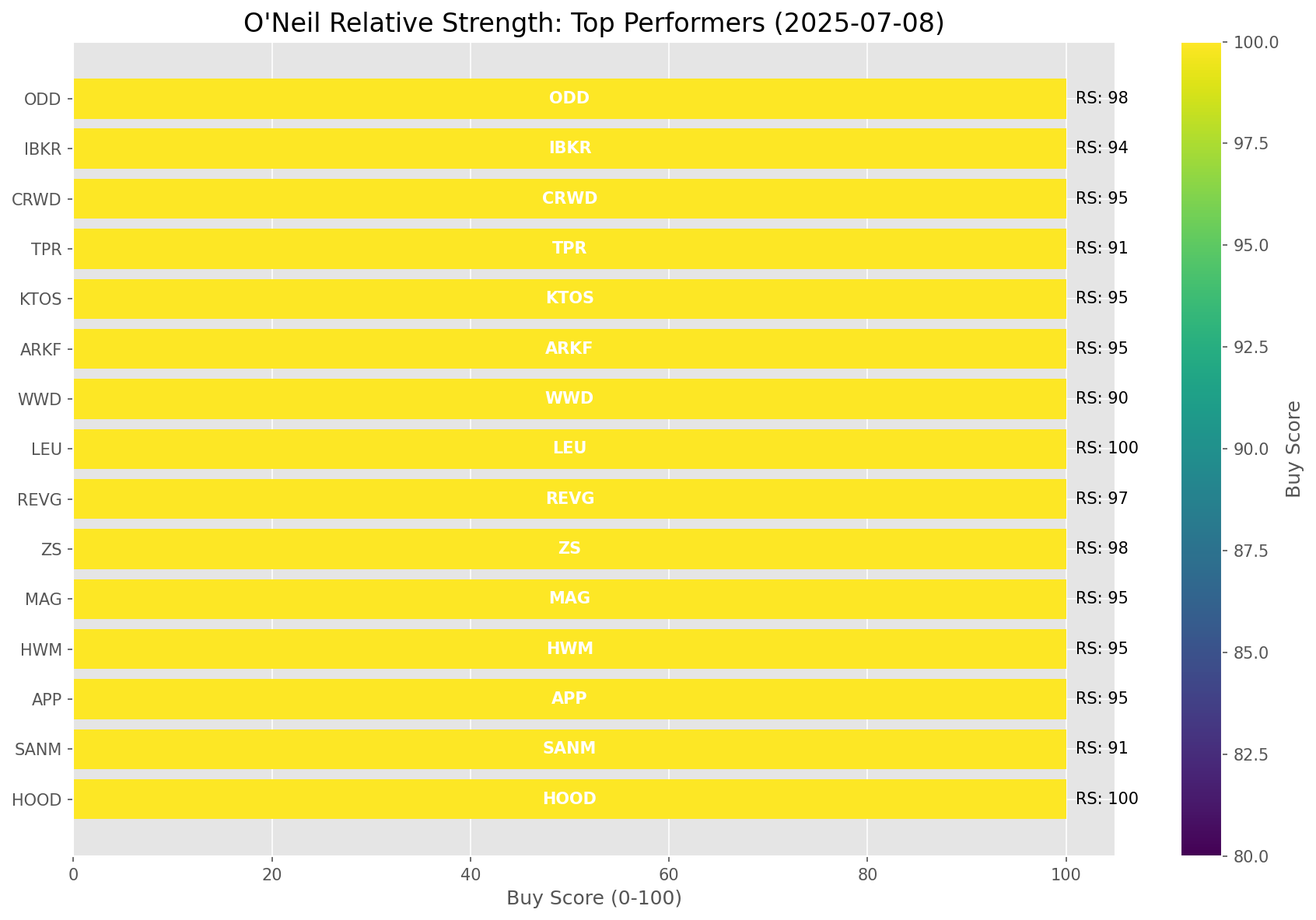
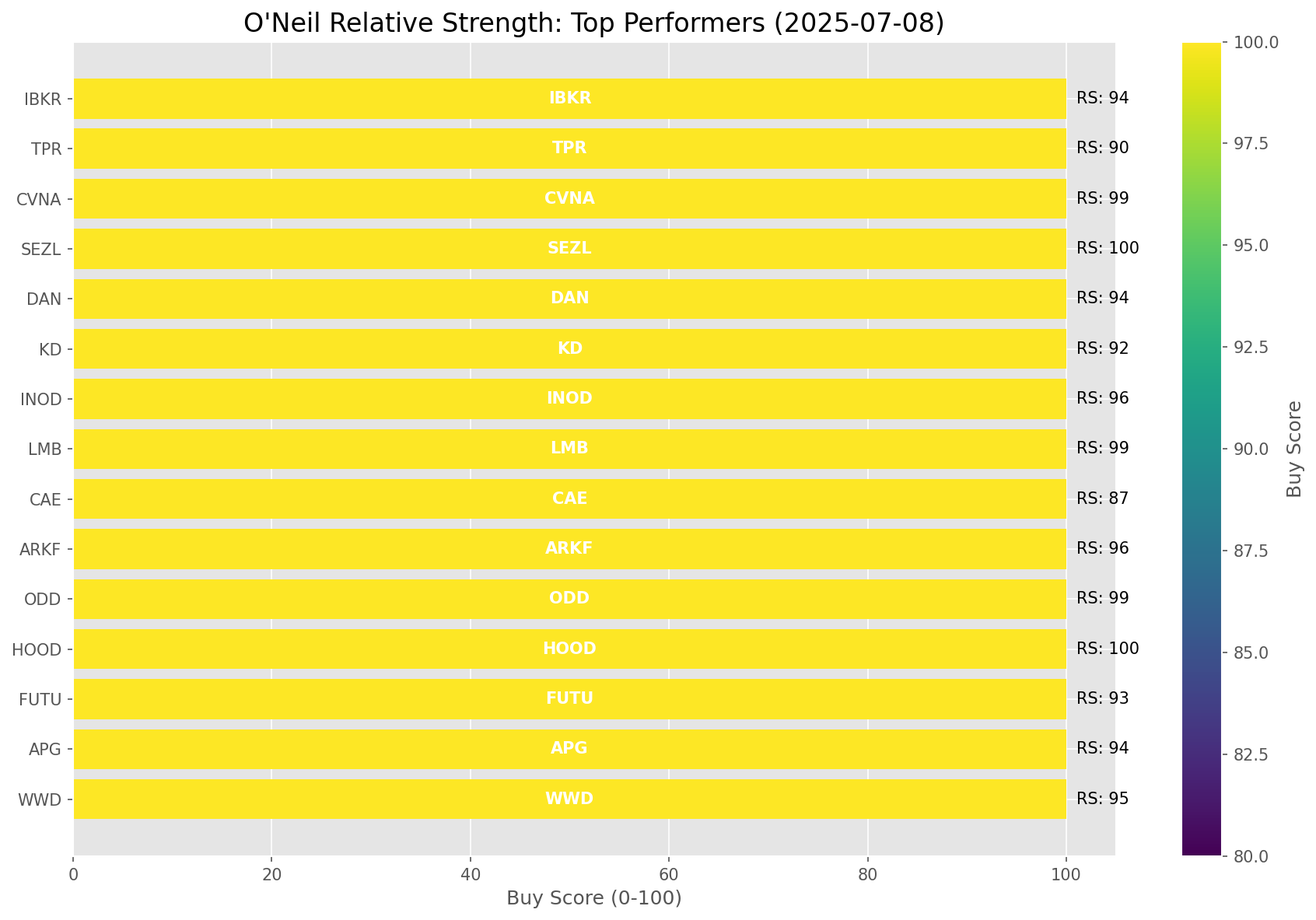
Add market report for 2025-07-08

diff --git a/oneil_relative_strength_report_2025-07-08.md b/oneil_relative_strength_report_2025-07-08.md
@@ -9,11 +9,11 @@
 | Metric | Value |
 |--------|-------|
 | **Market Valuation** | **Overvalued** |
-| **Current Ratio** | 10.20 |
+| **Current Ratio** | 10.21 |
 | **Historical Mean** | 9.41 |
 | **Standard Deviation** | 0.50 |
 | **Z-Score (StdDev from Mean)** | 1.59 |
-| **Total Market Cap** | $305.67 trillion |
+| **Total Market Cap** | $305.78 trillion |
 | **GDP** | $29.96 trillion |
 
 ## **Market Insights**
@@ -49,41 +49,41 @@ Based on William O'Neil's Relative Strength Methodology
 
 | ETF | Strength | RS Rating | Performance | Above Key MAs | Trend | Sector |
 |-----|----------|-----------|-------------|--------------|-------|--------|
-| [ARKK](https://www.tradingview.com/chart/?symbol=ARKK) | 98.5 | 97.0 | 68.72% | 10d ✓, 50d ✓, 200d ✓ | ↗ | Innovation |
-| [ARKW](https://www.tradingview.com/chart/?symbol=ARKW) | 98.0 | 96.0 | 62.73% | 10d ✓, 50d ✓, 200d ✓ | ↗ | Next Generation Internet |
-| [ARKF](https://www.tradingview.com/chart/?symbol=ARKF) | 97.5 | 95.0 | 59.26% | 10d ✓, 50d ✓, 200d ✓ | ↗ | Fintech Innovation |
+| [ARKK](https://www.tradingview.com/chart/?symbol=ARKK) | 98.5 | 97.0 | 68.85% | 10d ✓, 50d ✓, 200d ✓ | ↗ | Innovation |
+| [ARKF](https://www.tradingview.com/chart/?symbol=ARKF) | 98.0 | 96.0 | 68.20% | 10d ✓, 50d ✓, 200d ✓ | ↗ | Fintech Innovation |
+| [ARKW](https://www.tradingview.com/chart/?symbol=ARKW) | 97.5 | 95.0 | 62.73% | 10d ✓, 50d ✓, 200d ✓ | ↗ | Next Generation Internet |
 | [BLOK](https://www.tradingview.com/chart/?symbol=BLOK) | 96.5 | 93.0 | 53.81% | 10d ✓, 50d ✓, 200d ✓ | ↗ | Blockchain & Cryptocurrency |
-| [XLK](https://www.tradingview.com/chart/?symbol=XLK) | 94.0 | 88.0 | 40.28% | 10d ✓, 50d ✓, 200d ✓ | ↗ | Technology |
-| [AIQ](https://www.tradingview.com/chart/?symbol=AIQ) | 92.5 | 85.0 | 34.72% | 10d ✓, 50d ✓, 200d ✓ | ↗ | Artificial Intelligence & Technology |
-| [JETS](https://www.tradingview.com/chart/?symbol=JETS) | 92.0 | 84.0 | 33.72% | 10d ✓, 50d ✓, 200d ✓ | ↗ | Airlines |
-| [CIBR](https://www.tradingview.com/chart/?symbol=CIBR) | 91.0 | 82.0 | 31.80% | 10d ✓, 50d ✓, 200d ✓ | ↗ | Cybersecurity |
-| [URA](https://www.tradingview.com/chart/?symbol=URA) | 89.1 | 98.0 | 78.84% | 10d ✗, 50d ✓, 200d ✓ | ↗ | Uranium |
-| [XLI](https://www.tradingview.com/chart/?symbol=XLI) | 88.0 | 76.0 | 26.11% | 10d ✓, 50d ✓, 200d ✓ | ↗ | Industrial |
-| [PAVE](https://www.tradingview.com/chart/?symbol=PAVE) | 86.5 | 73.0 | 23.07% | 10d ✓, 50d ✓, 200d ✓ | ↗ | Infrastructure |
-| [SLV](https://www.tradingview.com/chart/?symbol=SLV) | 85.5 | 71.0 | 22.38% | 10d ✓, 50d ✓, 200d ✓ | ↗ | Silver |
-| [XLY](https://www.tradingview.com/chart/?symbol=XLY) | 83.0 | 66.0 | 19.34% | 10d ✓, 50d ✓, 200d ✓ | ↗ | Consumer Discretionary |
-| [XLF](https://www.tradingview.com/chart/?symbol=XLF) | 82.0 | 64.0 | 18.65% | 10d ✓, 50d ✓, 200d ✓ | ↗ | Financial |
-| [SOXX](https://www.tradingview.com/chart/?symbol=SOXX) | 76.5 | 93.0 | 53.39% | 10d ✓, 50d ✓, 200d ✓ | ↘ | Semiconductors |
-| [IYZ](https://www.tradingview.com/chart/?symbol=IYZ) | 76.0 | 52.0 | 12.04% | 10d ✓, 50d ✓, 200d ✓ | ↗ | Telecommunications |
-| [XLC](https://www.tradingview.com/chart/?symbol=XLC) | 75.6 | 71.0 | 22.22% | 10d ✗, 50d ✓, 200d ✓ | ↗ | Communications |
-| [KWEB](https://www.tradingview.com/chart/?symbol=KWEB) | 74.0 | 48.0 | 10.46% | 10d ✓, 50d ✓, 200d ✓ | ↗ | Chinese Internet |
-| [ARKG](https://www.tradingview.com/chart/?symbol=ARKG) | 70.5 | 81.0 | 30.60% | 10d ✓, 50d ✓, 200d ✓ | ↘ | Genomics |
-| [XLP](https://www.tradingview.com/chart/?symbol=XLP) | 67.0 | 34.0 | 3.93% | 10d ✓, 50d ✓, 200d ✓ | ↗ | Consumer Staples |
-| [ICLN](https://www.tradingview.com/chart/?symbol=ICLN) | 64.5 | 69.0 | 21.33% | 10d ✓, 50d ✓, 200d ✓ | ↘ | Clean Energy |
-| [IYT](https://www.tradingview.com/chart/?symbol=IYT) | 62.0 | 64.0 | 18.38% | 10d ✓, 50d ✓, 200d ✓ | ↘ | Transportation |
-| [XLB](https://www.tradingview.com/chart/?symbol=XLB) | 60.0 | 60.0 | 16.55% | 10d ✓, 50d ✓, 200d ✓ | ↘ | Materials |
-| [GLD](https://www.tradingview.com/chart/?symbol=GLD) | 52.7 | 45.0 | 8.87% | 10d ✗, 50d ✗, 200d ✓ | ↗ | Gold |
-| [XLU](https://www.tradingview.com/chart/?symbol=XLU) | 52.2 | 44.0 | 8.23% | 10d ✗, 50d ✗, 200d ✓ | ↗ | Utilities |
-| [DBC](https://www.tradingview.com/chart/?symbol=DBC) | 45.5 | 31.0 | 2.39% | 10d ✓, 50d ✓, 200d ✓ | ↘ | Commodities |
-| [XLE](https://www.tradingview.com/chart/?symbol=XLE) | 44.8 | 50.0 | 11.06% | 10d ✓, 50d ✓, 200d ✗ | ↘ | Energy |
-| [IBB](https://www.tradingview.com/chart/?symbol=IBB) | 44.3 | 49.0 | 10.58% | 10d ✓, 50d ✓, 200d ✗ | ↘ | Biotechnology |
-| [ITB](https://www.tradingview.com/chart/?symbol=ITB) | 35.8 | 32.0 | 2.76% | 10d ✓, 50d ✓, 200d ✗ | ↘ | Home Construction |
-| [XLV](https://www.tradingview.com/chart/?symbol=XLV) | 32.3 | 25.0 | 0.10% | 10d ✓, 50d ✓, 200d ✗ | ↘ | Healthcare |
-| [IYR](https://www.tradingview.com/chart/?symbol=IYR) | 29.9 | 40.0 | 6.49% | 10d ✗, 50d ✓, 200d ✗ | ↘ | Real Estate |
-| [DBA](https://www.tradingview.com/chart/?symbol=DBA) | 26.0 | 12.0 | -5.41% | 10d ✗, 50d ✗, 200d ✗ | ↗ | Agriculture |
-| [UUP](https://www.tradingview.com/chart/?symbol=UUP) | 16.9 | 14.0 | -3.86% | 10d ✓, 50d ✗, 200d ✗ | ↘ | U.S. Dollar |
-| [BIL](https://www.tradingview.com/chart/?symbol=BIL) | 12.0 | 24.0 | 0.04% | 10d ✗, 50d ✗, 200d ✗ | ↘ | Short-term Treasuries |
-| [TLT](https://www.tradingview.com/chart/?symbol=TLT) | 5.0 | 10.0 | -7.75% | 10d ✗, 50d ✗, 200d ✗ | ↘ | Long-term Treasuries |
+| [XLK](https://www.tradingview.com/chart/?symbol=XLK) | 94.0 | 88.0 | 40.51% | 10d ✓, 50d ✓, 200d ✓ | ↗ | Technology |
+| [AIQ](https://www.tradingview.com/chart/?symbol=AIQ) | 92.0 | 84.0 | 34.74% | 10d ✓, 50d ✓, 200d ✓ | ↗ | Artificial Intelligence & Technology |
+| [JETS](https://www.tradingview.com/chart/?symbol=JETS) | 91.5 | 83.0 | 33.72% | 10d ✓, 50d ✓, 200d ✓ | ↗ | Airlines |
+| [CIBR](https://www.tradingview.com/chart/?symbol=CIBR) | 89.5 | 79.0 | 30.78% | 10d ✓, 50d ✓, 200d ✓ | ↗ | Cybersecurity |
+| [URA](https://www.tradingview.com/chart/?symbol=URA) | 88.6 | 97.0 | 76.01% | 10d ✗, 50d ✓, 200d ✓ | ↗ | Uranium |
+| [PAVE](https://www.tradingview.com/chart/?symbol=PAVE) | 88.5 | 77.0 | 29.30% | 10d ✓, 50d ✓, 200d ✓ | ↗ | Infrastructure |
+| [XLI](https://www.tradingview.com/chart/?symbol=XLI) | 86.5 | 73.0 | 26.08% | 10d ✓, 50d ✓, 200d ✓ | ↗ | Industrial |
+| [SLV](https://www.tradingview.com/chart/?symbol=SLV) | 83.5 | 67.0 | 22.03% | 10d ✓, 50d ✓, 200d ✓ | ↗ | Silver |
+| [XLY](https://www.tradingview.com/chart/?symbol=XLY) | 81.0 | 62.0 | 19.54% | 10d ✓, 50d ✓, 200d ✓ | ↗ | Consumer Discretionary |
+| [XLF](https://www.tradingview.com/chart/?symbol=XLF) | 80.0 | 60.0 | 18.35% | 10d ✓, 50d ✓, 200d ✓ | ↗ | Financial |
+| [SOXX](https://www.tradingview.com/chart/?symbol=SOXX) | 77.0 | 94.0 | 55.57% | 10d ✓, 50d ✓, 200d ✓ | ↘ | Semiconductors |
+| [IYZ](https://www.tradingview.com/chart/?symbol=IYZ) | 74.0 | 48.0 | 12.04% | 10d ✓, 50d ✓, 200d ✓ | ↗ | Telecommunications |
+| [XLC](https://www.tradingview.com/chart/?symbol=XLC) | 73.6 | 67.0 | 21.99% | 10d ✗, 50d ✓, 200d ✓ | ↗ | Communications |
+| [KWEB](https://www.tradingview.com/chart/?symbol=KWEB) | 73.0 | 46.0 | 10.94% | 10d ✓, 50d ✓, 200d ✓ | ↗ | Chinese Internet |
+| [ARKG](https://www.tradingview.com/chart/?symbol=ARKG) | 70.5 | 81.0 | 31.84% | 10d ✓, 50d ✓, 200d ✓ | ↘ | Genomics |
+| [IYT](https://www.tradingview.com/chart/?symbol=IYT) | 66.0 | 72.0 | 25.35% | 10d ✓, 50d ✓, 200d ✓ | ↘ | Transportation |
+| [XLP](https://www.tradingview.com/chart/?symbol=XLP) | 65.5 | 31.0 | 3.99% | 10d ✓, 50d ✓, 200d ✓ | ↗ | Consumer Staples |
+| [ICLN](https://www.tradingview.com/chart/?symbol=ICLN) | 63.5 | 67.0 | 21.61% | 10d ✓, 50d ✓, 200d ✓ | ↘ | Clean Energy |
+| [XLB](https://www.tradingview.com/chart/?symbol=XLB) | 59.0 | 58.0 | 17.22% | 10d ✓, 50d ✓, 200d ✓ | ↘ | Materials |
+| [GLD](https://www.tradingview.com/chart/?symbol=GLD) | 50.7 | 41.0 | 8.30% | 10d ✗, 50d ✗, 200d ✓ | ↗ | Gold |
+| [XLU](https://www.tradingview.com/chart/?symbol=XLU) | 50.2 | 40.0 | 8.22% | 10d ✗, 50d ✗, 200d ✓ | ↗ | Utilities |
+| [DBC](https://www.tradingview.com/chart/?symbol=DBC) | 48.0 | 36.0 | 6.56% | 10d ✓, 50d ✓, 200d ✓ | ↘ | Commodities |
+| [XLE](https://www.tradingview.com/chart/?symbol=XLE) | 43.3 | 47.0 | 11.58% | 10d ✓, 50d ✓, 200d ✗ | ↘ | Energy |
+| [IBB](https://www.tradingview.com/chart/?symbol=IBB) | 43.3 | 47.0 | 11.23% | 10d ✓, 50d ✓, 200d ✗ | ↘ | Biotechnology |
+| [IYR](https://www.tradingview.com/chart/?symbol=IYR) | 37.8 | 36.0 | 6.81% | 10d ✓, 50d ✓, 200d ✗ | ↘ | Real Estate |
+| [ITB](https://www.tradingview.com/chart/?symbol=ITB) | 35.8 | 32.0 | 4.48% | 10d ✓, 50d ✓, 200d ✗ | ↘ | Home Construction |
+| [XLV](https://www.tradingview.com/chart/?symbol=XLV) | 31.3 | 23.0 | 0.59% | 10d ✓, 50d ✓, 200d ✗ | ↘ | Healthcare |
+| [DBA](https://www.tradingview.com/chart/?symbol=DBA) | 25.5 | 11.0 | -5.41% | 10d ✗, 50d ✗, 200d ✗ | ↗ | Agriculture |
+| [UUP](https://www.tradingview.com/chart/?symbol=UUP) | 15.9 | 12.0 | -3.91% | 10d ✓, 50d ✗, 200d ✗ | ↘ | U.S. Dollar |
+| [BIL](https://www.tradingview.com/chart/?symbol=BIL) | 10.5 | 21.0 | 0.04% | 10d ✗, 50d ✗, 200d ✗ | ↘ | Short-term Treasuries |
+| [TLT](https://www.tradingview.com/chart/?symbol=TLT) | 4.0 | 8.0 | -7.75% | 10d ✗, 50d ✗, 200d ✗ | ↘ | Long-term Treasuries |
 
 ### **Sector ETF Performance Interpretation**
 
@@ -98,164 +98,145 @@ This table shows the relative strength metrics for different market sectors base
 
 ### **Current Sector Leadership**
 
-The current market leadership is coming from the following sectors: **Innovation, Next Generation Internet, Fintech Innovation**.
+The current market leadership is coming from the following sectors: **Innovation, Fintech Innovation, Next Generation Internet**.
 
-The **Innovation** sector (represented by **ARKK**) is showing particularly strong relative strength with an RS rating of 97.0 and performance of 68.72% vs. the S&P 500. This sector is trading above its 10-day, 50-day, 200-day moving average(s). Investors should consider focusing on high RS stocks within these leading sectors for potential outperformance.
+The **Innovation** sector (represented by **ARKK**) is showing particularly strong relative strength with an RS rating of 97.0 and performance of 68.85% vs. the S&P 500. This sector is trading above its 10-day, 50-day, 200-day moving average(s). Investors should consider focusing on high RS stocks within these leading sectors for potential outperformance.
 
 ---
 
 ## **Buy Recommendations**
 
-The following 49 stocks show exceptional relative strength:
+The following 27 stocks show exceptional relative strength:
 
 | RS Rating | Buy Score | Current Price | Chart | Name | Ticker |
 |-----------|-----------|---------------|-------|------|--------|
-| 100 | 100 | $93.09 | [Chart](https://www.tradingview.com/chart/?symbol=HOOD) | Robinhood Markets, Inc. Class A Common Stock | HOOD |
-| 100 | 100 | $180.14 | [Chart](https://www.tradingview.com/chart/?symbol=LEU) | Centrus Energy Corp. | LEU |
-| 100 | 100 | $279.80 | [Chart](https://www.tradingview.com/chart/?symbol=DAVE) | Dave Inc. Class A Common Stock | DAVE |
-| 100 | 100 | $350.68 | [Chart](https://www.tradingview.com/chart/?symbol=CVNA) | Carvana Co. | CVNA |
-| 100 | 100 | $179.87 | [Chart](https://www.tradingview.com/chart/?symbol=SEZL) | Sezzle Inc. Common Stock | SEZL |
+| 100 | 100 | $91.32 | [Chart](https://www.tradingview.com/chart/?symbol=HOOD) | Robinhood Markets, Inc. Class A Common Stock | HOOD |
+| 100 | 100 | $172.18 | [Chart](https://www.tradingview.com/chart/?symbol=SEZL) | Sezzle Inc. Common Stock | SEZL |
+| 100 | 100 | $270.53 | [Chart](https://www.tradingview.com/chart/?symbol=DAVE) | Dave Inc. Class A Common Stock | DAVE |
+| 99 | 100 | $74.32 | [Chart](https://www.tradingview.com/chart/?symbol=ODD) | ODDITY Tech Ltd. Class A Ordinary Shares | ODD |
 | 99 | 100 | $148.26 | [Chart](https://www.tradingview.com/chart/?symbol=LMB) | Limbach Holdings, Inc Common Stock | LMB |
-| 99 | 100 | $194.02 | [Chart](https://www.tradingview.com/chart/?symbol=NET) | Cloudflare, Inc. Class A common stock, par value $0.001 per share | NET |
-| 99 | 100 | $105.58 | [Chart](https://www.tradingview.com/chart/?symbol=RBLX) | Roblox Corporation | RBLX |
-| 99 | 100 | $521.80 | [Chart](https://www.tradingview.com/chart/?symbol=GEV) | GE Vernova Inc. | GEV |
-| 98 | 100 | $315.24 | [Chart](https://www.tradingview.com/chart/?symbol=ZS) | Zscaler, Inc. Common Stock | ZS |
-| 98 | 100 | $76.01 | [Chart](https://www.tradingview.com/chart/?symbol=ODD) | ODDITY Tech Ltd. Class A Ordinary Shares | ODD |
-| 98 | 100 | $44.01 | [Chart](https://www.tradingview.com/chart/?symbol=FARO) | Faro Technologies Inc | FARO |
-| 97 | 100 | $49.80 | [Chart](https://www.tradingview.com/chart/?symbol=REVG) | REV Group, Inc. | REVG |
-| 97 | 100 | $51.23 | [Chart](https://www.tradingview.com/chart/?symbol=INOD) | Innodata Inc. | INOD |
-| 97 | 100 | $88.83 | [Chart](https://www.tradingview.com/chart/?symbol=RBRK) | Rubrik, Inc. | RBRK |
-| 95 | 100 | $349.54 | [Chart](https://www.tradingview.com/chart/?symbol=APP) | Applovin Corporation Class A Common Stock | APP |
-| 95 | 100 | $179.42 | [Chart](https://www.tradingview.com/chart/?symbol=HWM) | Howmet Aerospace Inc. | HWM |
-| 95 | 100 | $21.40 | [Chart](https://www.tradingview.com/chart/?symbol=MAG) | MAG Silver Corp. | MAG |
-| 95 | 100 | $50.63 | [Chart](https://www.tradingview.com/chart/?symbol=ARKF) | ARK Fintech Innovation ETF | ARKF |
-| 95 | 100 | $44.05 | [Chart](https://www.tradingview.com/chart/?symbol=KTOS) | Kratos Defense & Security Solutions, Inc. | KTOS |
-| 95 | 100 | $506.48 | [Chart](https://www.tradingview.com/chart/?symbol=CRWD) | CrowdStrike Holdings, Inc. Class A Common Stock | CRWD |
-| 95 | 100 | $34.02 | [Chart](https://www.tradingview.com/chart/?symbol=APG) | APi Group Corporation | APG |
-| 94 | 100 | $57.44 | [Chart](https://www.tradingview.com/chart/?symbol=IBKR) | Interactive Brokers Group, Inc. Class A Common Stock | IBKR |
-| 94 | 100 | $17.44 | [Chart](https://www.tradingview.com/chart/?symbol=DAN) | Dana Incorporated | DAN |
-| 94 | 100 | $131.14 | [Chart](https://www.tradingview.com/chart/?symbol=FUTU) | Futu Holdings Limited American Depositary Shares | FUTU |
-| 93 | 100 | $46.05 | [Chart](https://www.tradingview.com/chart/?symbol=DRS) | Leonardo DRS, Inc. Common Stock | DRS |
-| 93 | 100 | $43.93 | [Chart](https://www.tradingview.com/chart/?symbol=KD) | Kyndryl Holdings, Inc. | KD |
-| 92 | 100 | $802.16 | [Chart](https://www.tradingview.com/chart/?symbol=AXON) | Axon Enterprise, Inc. Common Stock | AXON |
-| 91 | 100 | $101.29 | [Chart](https://www.tradingview.com/chart/?symbol=SANM) | Sanmina  Corp | SANM |
-| 91 | 100 | $91.61 | [Chart](https://www.tradingview.com/chart/?symbol=TPR) | Tapestry, Inc. Common Stock | TPR |
-| 90 | 100 | $253.50 | [Chart](https://www.tradingview.com/chart/?symbol=WWD) | Woodward, Inc. | WWD |
-| 90 | 100 | $285.81 | [Chart](https://www.tradingview.com/chart/?symbol=RL) | Ralph Lauren Corporation | RL |
-| 87 | 100 | $27.98 | [Chart](https://www.tradingview.com/chart/?symbol=SRAD) | Sportradar Group AG Class A Ordinary Shares | SRAD |
-| 88 | 98 | $29.89 | [Chart](https://www.tradingview.com/chart/?symbol=NTGR) | NETGEAR, Inc. | NTGR |
-| 87 | 98 | $76.83 | [Chart](https://www.tradingview.com/chart/?symbol=CTVA) | Corteva, Inc. Common Stock | CTVA |
-| 86 | 98 | $59.58 | [Chart](https://www.tradingview.com/chart/?symbol=SHLD) | Global X Defense Tech ETF | SHLD |
-| 87 | 96 | $48.31 | [Chart](https://www.tradingview.com/chart/?symbol=SIL) | Global X Silver Miners ETF (NEW) | SIL |
-| 85 | 96 | $25.41 | [Chart](https://www.tradingview.com/chart/?symbol=KAR) | OPENLANE, Inc | KAR |
-| 85 | 95 | $35.47 | [Chart](https://www.tradingview.com/chart/?symbol=ATAT) | Atour Lifestyle Holdings Limited American Depositary Shares | ATAT |
-| 85 | 95 | $111.54 | [Chart](https://www.tradingview.com/chart/?symbol=SPMO) | Invesco S&P 500 Momentum ETF | SPMO |
-| 85 | 95 | $81.97 | [Chart](https://www.tradingview.com/chart/?symbol=WFC) | Wells Fargo & Co. | WFC |
-| 82 | 95 | $65.52 | [Chart](https://www.tradingview.com/chart/?symbol=CHEF) | The Chef's Warehouse Inc | CHEF |
-| 85 | 94 | $28.89 | [Chart](https://www.tradingview.com/chart/?symbol=PAAS) | Pan American Silver Corp. | PAAS |
-| 82 | 94 | $75.84 | [Chart](https://www.tradingview.com/chart/?symbol=CIBR) | First Trust Exchange-Traded Fund II First Trust NASDAQ Cybersecurity ETF | CIBR |
-| 84 | 93 | $66.39 | [Chart](https://www.tradingview.com/chart/?symbol=RYTM) | Rhythm Pharmaceuticals, Inc. Common Stock | RYTM |
-| 83 | 93 | $90.25 | [Chart](https://www.tradingview.com/chart/?symbol=NDAQ) | Nasdaq, Inc. Common Stock | NDAQ |
-| 82 | 93 | $30.57 | [Chart](https://www.tradingview.com/chart/?symbol=HODL) | VanEck Bitcoin ETF | HODL |
-| 81 | 92 | $5815.92 | [Chart](https://www.tradingview.com/chart/?symbol=BKNG) | Booking Holdings Inc. Common Stock | BKNG |
-| 80 | 90 | $61.78 | [Chart](https://www.tradingview.com/chart/?symbol=IBIT) | iShares Bitcoin Trust ETF | IBIT |
+| 99 | 100 | $345.61 | [Chart](https://www.tradingview.com/chart/?symbol=CVNA) | Carvana Co. | CVNA |
+| 98 | 100 | $516.01 | [Chart](https://www.tradingview.com/chart/?symbol=GEV) | GE Vernova Inc. | GEV |
+| 98 | 100 | $44.00 | [Chart](https://www.tradingview.com/chart/?symbol=FARO) | Faro Technologies Inc | FARO |
+| 96 | 100 | $50.09 | [Chart](https://www.tradingview.com/chart/?symbol=ARKF) | ARK Fintech Innovation ETF | ARKF |
+| 96 | 100 | $49.90 | [Chart](https://www.tradingview.com/chart/?symbol=INOD) | Innodata Inc. | INOD |
+| 95 | 100 | $249.18 | [Chart](https://www.tradingview.com/chart/?symbol=WWD) | Woodward, Inc. | WWD |
+| 94 | 100 | $33.89 | [Chart](https://www.tradingview.com/chart/?symbol=APG) | APi Group Corporation | APG |
+| 94 | 100 | $17.49 | [Chart](https://www.tradingview.com/chart/?symbol=DAN) | Dana Incorporated | DAN |
+| 94 | 100 | $56.73 | [Chart](https://www.tradingview.com/chart/?symbol=IBKR) | Interactive Brokers Group, Inc. Class A Common Stock | IBKR |
+| 93 | 100 | $128.88 | [Chart](https://www.tradingview.com/chart/?symbol=FUTU) | Futu Holdings Limited American Depositary Shares | FUTU |
+| 92 | 100 | $43.62 | [Chart](https://www.tradingview.com/chart/?symbol=KD) | Kyndryl Holdings, Inc. | KD |
+| 90 | 100 | $91.47 | [Chart](https://www.tradingview.com/chart/?symbol=TPR) | Tapestry, Inc. Common Stock | TPR |
+| 87 | 100 | $29.90 | [Chart](https://www.tradingview.com/chart/?symbol=CAE) | CAE INC | CAE |
+| 85 | 99 | $27.89 | [Chart](https://www.tradingview.com/chart/?symbol=SRAD) | Sportradar Group AG Class A Ordinary Shares | SRAD |
+| 87 | 98 | $25.01 | [Chart](https://www.tradingview.com/chart/?symbol=KAR) | OPENLANE, Inc | KAR |
+| 88 | 97 | $66.27 | [Chart](https://www.tradingview.com/chart/?symbol=RYTM) | Rhythm Pharmaceuticals, Inc. Common Stock | RYTM |
+| 87 | 97 | $29.89 | [Chart](https://www.tradingview.com/chart/?symbol=NTGR) | NETGEAR, Inc. | NTGR |
+| 85 | 96 | $76.42 | [Chart](https://www.tradingview.com/chart/?symbol=CTVA) | Corteva, Inc. Common Stock | CTVA |
+| 84 | 96 | $59.24 | [Chart](https://www.tradingview.com/chart/?symbol=SHLD) | Global X Defense Tech ETF | SHLD |
+| 84 | 95 | $134.06 | [Chart](https://www.tradingview.com/chart/?symbol=NTES) | NetEase, inc. | NTES |
+| 84 | 94 | $35.23 | [Chart](https://www.tradingview.com/chart/?symbol=ATAT) | Atour Lifestyle Holdings Limited American Depositary Shares | ATAT |
+| 82 | 92 | $81.40 | [Chart](https://www.tradingview.com/chart/?symbol=WFC) | Wells Fargo & Co. | WFC |
 
 ---
 
 
 ## **Sell Recommendations**
 
-The following 87 stocks show deteriorating relative strength:
+The following 90 stocks show deteriorating relative strength:
 
 | RS Rating | Sell Score | Current Price | Chart | Name | Ticker |
 |-----------|------------|---------------|-------|------|--------|
-| 1 | 100 | $25.32 | [Chart](https://www.tradingview.com/chart/?symbol=QID) | ProShares UltraShort QQQ | QID |
-| 1 | 100 | $14.25 | [Chart](https://www.tradingview.com/chart/?symbol=NVDS) | Investment Managers Series Trust II Tradr 1.5X Short NVDA Daily ETF | NVDS |
-| 1 | 100 | $25.94 | [Chart](https://www.tradingview.com/chart/?symbol=TECS) | Direxion Daily Technology Bear 3x Shares | TECS |
-| 1 | 100 | $40.84 | [Chart](https://www.tradingview.com/chart/?symbol=SDOW) | ProShares UltraPro Short Dow 30 | SDOW |
-| 2 | 100 | $19.46 | [Chart](https://www.tradingview.com/chart/?symbol=BITI) | ProShares Short Bitcoin ETF | BITI |
+| 1 | 100 | $25.80 | [Chart](https://www.tradingview.com/chart/?symbol=TECS) | Direxion Daily Technology Bear 3x Shares | TECS |
+| 1 | 100 | $16.54 | [Chart](https://www.tradingview.com/chart/?symbol=SDS) | ProShares UltraShort S&P500 | SDS |
+| 1 | 100 | $14.28 | [Chart](https://www.tradingview.com/chart/?symbol=NVDS) | Investment Managers Series Trust II Tradr 1.5X Short NVDA Daily ETF | NVDS |
+| 1 | 100 | $40.81 | [Chart](https://www.tradingview.com/chart/?symbol=SDOW) | ProShares UltraPro Short Dow 30 | SDOW |
+| 1 | 100 | $25.29 | [Chart](https://www.tradingview.com/chart/?symbol=QID) | ProShares UltraShort QQQ | QID |
+| 2 | 100 | $10.11 | [Chart](https://www.tradingview.com/chart/?symbol=HPK) | HighPeak Energy, Inc. Common Stock | HPK |
+| 2 | 100 | $35.60 | [Chart](https://www.tradingview.com/chart/?symbol=SARK) | Investment Managers Series Trust II Tradr 1X Short Innovation Daily ETF | SARK |
 | 2 | 100 | $24.00 | [Chart](https://www.tradingview.com/chart/?symbol=DXD) | ProShares UltraShort Dow 30 | DXD |
-| 2 | 100 | $42.74 | [Chart](https://www.tradingview.com/chart/?symbol=LINE) | Lineage, Inc. Common Stock | LINE |
-| 2 | 100 | $16.55 | [Chart](https://www.tradingview.com/chart/?symbol=SDS) | ProShares UltraShort S&P500 | SDS |
-| 2 | 100 | $33.69 | [Chart](https://www.tradingview.com/chart/?symbol=PSQ) | ProShares Short QQQ | PSQ |
-| 2 | 100 | $10.20 | [Chart](https://www.tradingview.com/chart/?symbol=HPK) | HighPeak Energy, Inc. Common Stock | HPK |
-| 2 | 100 | $24.84 | [Chart](https://www.tradingview.com/chart/?symbol=CRTO) | Criteo S.A. | CRTO |
-| 3 | 100 | $35.60 | [Chart](https://www.tradingview.com/chart/?symbol=SARK) | Investment Managers Series Trust II Tradr 1X Short Innovation Daily ETF | SARK |
-| 3 | 100 | $39.58 | [Chart](https://www.tradingview.com/chart/?symbol=SH) | ProShares Short S&P500 | SH |
-| 3 | 100 | $35.26 | [Chart](https://www.tradingview.com/chart/?symbol=IBTA) | Ibotta, Inc. | IBTA |
-| 3 | 100 | $79.19 | [Chart](https://www.tradingview.com/chart/?symbol=LNTH) | Lantheus Holdings, Inc | LNTH |
+| 2 | 100 | $19.51 | [Chart](https://www.tradingview.com/chart/?symbol=BITI) | ProShares Short Bitcoin ETF | BITI |
+| 2 | 100 | $33.66 | [Chart](https://www.tradingview.com/chart/?symbol=PSQ) | ProShares Short QQQ | PSQ |
+| 3 | 100 | $39.55 | [Chart](https://www.tradingview.com/chart/?symbol=SH) | ProShares Short S&P500 | SH |
 | 3 | 100 | $139.74 | [Chart](https://www.tradingview.com/chart/?symbol=KRYS) | Krystal Biotech, Inc. Common Stock | KRYS |
-| 4 | 100 | $16.71 | [Chart](https://www.tradingview.com/chart/?symbol=HP) | Helmerich & Payne, Inc. | HP |
-| 4 | 100 | $10.22 | [Chart](https://www.tradingview.com/chart/?symbol=LBTYK) | Liberty Global Ltd. Class C Common Shares | LBTYK |
-| 5 | 100 | $25.38 | [Chart](https://www.tradingview.com/chart/?symbol=DOG) | ProShares Short Dow30 | DOG |
-| 5 | 100 | $12.75 | [Chart](https://www.tradingview.com/chart/?symbol=CCRN) | Cross Country Healthcare Inc | CCRN |
-| 5 | 100 | $16.48 | [Chart](https://www.tradingview.com/chart/?symbol=COLD) | Americold Realty Trust, Inc. | COLD |
-| 5 | 100 | $10.77 | [Chart](https://www.tradingview.com/chart/?symbol=SONO) | Sonos, Inc. Common Stock | SONO |
-| 6 | 100 | $14.54 | [Chart](https://www.tradingview.com/chart/?symbol=VRE) | Veris Residential, Inc. | VRE |
-| 6 | 100 | $51.20 | [Chart](https://www.tradingview.com/chart/?symbol=LW) | Lamb Weston Holdings, Inc. | LW |
-| 7 | 100 | $51.93 | [Chart](https://www.tradingview.com/chart/?symbol=CNMD) | CONMED Corporation | CNMD |
-| 7 | 100 | $64.07 | [Chart](https://www.tradingview.com/chart/?symbol=ZROZ) | PIMCO 25+ Year Zero Coupon U.S. Treasury Index Exchange-Traded Fund | ZROZ |
-| 7 | 100 | $17.84 | [Chart](https://www.tradingview.com/chart/?symbol=APLS) | Apellis Pharmaceuticals, Inc. Common Stock | APLS |
-| 9 | 100 | $45.54 | [Chart](https://www.tradingview.com/chart/?symbol=CWT) | California Water Service | CWT |
-| 9 | 100 | $52.77 | [Chart](https://www.tradingview.com/chart/?symbol=KBH) | KB Home | KBH |
-| 9 | 100 | $85.60 | [Chart](https://www.tradingview.com/chart/?symbol=SIGI) | Selective Insurance Group | SIGI |
-| 9 | 100 | $82.50 | [Chart](https://www.tradingview.com/chart/?symbol=KSPI) | Joint Stock Company Kaspi.kz American Depository Shares | KSPI |
-| 5 | 99 | $28.92 | [Chart](https://www.tradingview.com/chart/?symbol=OMCL) | Omnicell Inc | OMCL |
-| 9 | 99 | $12.88 | [Chart](https://www.tradingview.com/chart/?symbol=UTZ) | Utz Brands, Inc. | UTZ |
-| 10 | 99 | $85.65 | [Chart](https://www.tradingview.com/chart/?symbol=TLT) | iShares 20+ Year Treasury Bond ETF | TLT |
-| 10 | 99 | $38.13 | [Chart](https://www.tradingview.com/chart/?symbol=LKQ) | LKQ Corporation | LKQ |
-| 17 | 99 | $17.80 | [Chart](https://www.tradingview.com/chart/?symbol=ZTO) | ZTO Express (Cayman) Inc. American Depositary Shares, each representing one Class A ordinary share | ZTO |
-| 10 | 98 | $12.61 | [Chart](https://www.tradingview.com/chart/?symbol=EWTX) | Edgewise Therapeutics, Inc. Common Stock | EWTX |
-| 11 | 98 | $61.81 | [Chart](https://www.tradingview.com/chart/?symbol=ELS) | Equity Lifestyle Properties, Inc. | ELS |
-| 13 | 98 | $131.03 | [Chart](https://www.tradingview.com/chart/?symbol=KMB) | Kimberly-Clark Corp. | KMB |
-| 8 | 97 | $13.70 | [Chart](https://www.tradingview.com/chart/?symbol=EIC) | Eagle Point Income Company Inc. | EIC |
-| 13 | 97 | $10.38 | [Chart](https://www.tradingview.com/chart/?symbol=NMZ) | Nuveen Municipal High Income Opportunity Fund | NMZ |
-| 16 | 97 | $10.37 | [Chart](https://www.tradingview.com/chart/?symbol=MUC) | BLACKROCK MUNIHOLDINGS CALIFORNIA QUALITY FUND, INC | MUC |
-| 10 | 96 | $40.91 | [Chart](https://www.tradingview.com/chart/?symbol=POR) | Portland General Electric Company | POR |
-| 10 | 96 | $334.06 | [Chart](https://www.tradingview.com/chart/?symbol=EG) | Everest Group, Ltd. | EG |
-| 11 | 96 | $48.38 | [Chart](https://www.tradingview.com/chart/?symbol=SNY) | Sanofi American Depositary Shares (Each representing one-half of one ordinary share) | SNY |
-| 8 | 94 | $25.28 | [Chart](https://www.tradingview.com/chart/?symbol=DRV) | Direxion Daily Real Estate Bear 3X Shares | DRV |
-| 10 | 94 | $26.34 | [Chart](https://www.tradingview.com/chart/?symbol=VCYT) | Veracyte, Inc. | VCYT |
-| 12 | 93 | $12.67 | [Chart](https://www.tradingview.com/chart/?symbol=PCN) | PIMCO Corporate & Income Strategy Fund | PCN |
-| 14 | 93 | $181.52 | [Chart](https://www.tradingview.com/chart/?symbol=UHS) | Universal Health Services, Inc. Class B | UHS |
-| 14 | 93 | $16.05 | [Chart](https://www.tradingview.com/chart/?symbol=BNL) | Broadstone Net Lease, Inc. | BNL |
-| 20 | 93 | $15.58 | [Chart](https://www.tradingview.com/chart/?symbol=HQH) | abrdn Healthcare Investors | HQH |
-| 22 | 93 | $29.12 | [Chart](https://www.tradingview.com/chart/?symbol=SPTS) | SPDR Portfolio Short Term Treasury ETF | SPTS |
-| 9 | 92 | $129.71 | [Chart](https://www.tradingview.com/chart/?symbol=ICUI) | ICU Medical Inc | ICUI |
-| 13 | 92 | $76.49 | [Chart](https://www.tradingview.com/chart/?symbol=CNS) | Cohen & Steers Inc. | CNS |
-| 14 | 92 | $76.47 | [Chart](https://www.tradingview.com/chart/?symbol=AWR) | American States Water Company | AWR |
-| 12 | 91 | $18.93 | [Chart](https://www.tradingview.com/chart/?symbol=MSDL) | Morgan Stanley Direct Lending Fund | MSDL |
-| 14 | 91 | $14.13 | [Chart](https://www.tradingview.com/chart/?symbol=DOLE) | Dole plc | DOLE |
-| 21 | 90 | $32.24 | [Chart](https://www.tradingview.com/chart/?symbol=INVH) | Invitation Homes Inc. Common Stock | INVH |
-| 21 | 90 | $47.19 | [Chart](https://www.tradingview.com/chart/?symbol=KBR) | KBR, Inc. | KBR |
-| 14 | 89 | $30.20 | [Chart](https://www.tradingview.com/chart/?symbol=AXTA) | Axalta Coating Systems Ltd. | AXTA |
-| 15 | 88 | $34.90 | [Chart](https://www.tradingview.com/chart/?symbol=PECO) | Phillips Edison & Company, Inc. Common Stock | PECO |
-| 15 | 88 | $68.82 | [Chart](https://www.tradingview.com/chart/?symbol=BRC) | Brady Corporation | BRC |
-| 15 | 88 | $31.45 | [Chart](https://www.tradingview.com/chart/?symbol=SUPN) | Supernus Pharmaceuticals, Inc. | SUPN |
-| 26 | 88 | $104.48 | [Chart](https://www.tradingview.com/chart/?symbol=DEO) | Diageo plc | DEO |
-| 19 | 87 | $22.94 | [Chart](https://www.tradingview.com/chart/?symbol=SCHZ) | Schwab US Aggregate Bond ETF | SCHZ |
-| 27 | 87 | $14.01 | [Chart](https://www.tradingview.com/chart/?symbol=OCSL) | Oaktree Specialty Lending Corporation | OCSL |
-| 19 | 85 | $111.03 | [Chart](https://www.tradingview.com/chart/?symbol=RPM) | RPM International, Inc. | RPM |
-| 19 | 85 | $98.00 | [Chart](https://www.tradingview.com/chart/?symbol=AGG) | iShares Core U.S. Aggregate Bond ETF | AGG |
-| 19 | 85 | $104.51 | [Chart](https://www.tradingview.com/chart/?symbol=DECK) | Deckers Outdoor Corp | DECK |
-| 23 | 85 | $22.84 | [Chart](https://www.tradingview.com/chart/?symbol=IBTG) | iShares iBonds Dec 2026 Term Treasury ETF | IBTG |
-| 17 | 84 | $36.45 | [Chart](https://www.tradingview.com/chart/?symbol=OHI) | Omega Healthcare Investors Inc. | OHI |
-| 29 | 83 | $60.83 | [Chart](https://www.tradingview.com/chart/?symbol=UL) | Unilever plc | UL |
-| 23 | 81 | $110.14 | [Chart](https://www.tradingview.com/chart/?symbol=SHV) | iShares Short Treasury Bond ETF | SHV |
-| 22 | 80 | $35.20 | [Chart](https://www.tradingview.com/chart/?symbol=LTC) | LTC Properties, Inc. | LTC |
-| 26 | 80 | $35.59 | [Chart](https://www.tradingview.com/chart/?symbol=AMH) | AMERICAN HOMES 4 RENT | AMH |
-| 27 | 80 | $117.02 | [Chart](https://www.tradingview.com/chart/?symbol=ITGR) | Integer Holdings Corporation | ITGR |
-| 22 | 78 | $80.52 | [Chart](https://www.tradingview.com/chart/?symbol=OKE) | Oneok, Inc. | OKE |
-| 30 | 78 | $124.43 | [Chart](https://www.tradingview.com/chart/?symbol=RGEN) | Repligen Corp | RGEN |
-| 34 | 78 | $13.30 | [Chart](https://www.tradingview.com/chart/?symbol=ARDT) | Ardent Health, Inc. | ARDT |
-| 28 | 77 | $40.86 | [Chart](https://www.tradingview.com/chart/?symbol=UDR) | UDR, Inc. | UDR |
-| 34 | 75 | $194.41 | [Chart](https://www.tradingview.com/chart/?symbol=RGA) | Reinsurance Group of America, Incorporated | RGA |
-| 26 | 74 | $23.09 | [Chart](https://www.tradingview.com/chart/?symbol=IBHF) | iShares iBonds 2026 Term High Yield and Income ETF | IBHF |
-| 34 | 74 | $345.14 | [Chart](https://www.tradingview.com/chart/?symbol=SHW) | The Sherwin-Williams Company | SHW |
-| 37 | 74 | $30.32 | [Chart](https://www.tradingview.com/chart/?symbol=BAX) | Baxter International Inc. | BAX |
-| 30 | 73 | $69.80 | [Chart](https://www.tradingview.com/chart/?symbol=AZN) | AstraZeneca PLC | AZN |
-| 38 | 65 | $89.10 | [Chart](https://www.tradingview.com/chart/?symbol=VNQ) | Vanguard Real Estate ETF | VNQ |
-| 39 | 61 | $39.03 | [Chart](https://www.tradingview.com/chart/?symbol=LZB) | La-Z-Boy Incorporated | LZB |
+| 3 | 100 | $35.26 | [Chart](https://www.tradingview.com/chart/?symbol=IBTA) | Ibotta, Inc. | IBTA |
+| 3 | 100 | $44.55 | [Chart](https://www.tradingview.com/chart/?symbol=LINE) | Lineage, Inc. Common Stock | LINE |
+| 4 | 100 | $25.37 | [Chart](https://www.tradingview.com/chart/?symbol=DOG) | ProShares Short Dow30 | DOG |
+| 4 | 100 | $51.56 | [Chart](https://www.tradingview.com/chart/?symbol=ASGN) | ASGN Incorporated | ASGN |
+| 4 | 100 | $28.92 | [Chart](https://www.tradingview.com/chart/?symbol=OMCL) | Omnicell Inc | OMCL |
+| 4 | 100 | $10.24 | [Chart](https://www.tradingview.com/chart/?symbol=LBTYK) | Liberty Global Ltd. Class C Common Shares | LBTYK |
+| 4 | 100 | $25.06 | [Chart](https://www.tradingview.com/chart/?symbol=CRTO) | Criteo S.A. | CRTO |
+| 4 | 100 | $12.75 | [Chart](https://www.tradingview.com/chart/?symbol=CCRN) | Cross Country Healthcare Inc | CCRN |
+| 5 | 100 | $32.07 | [Chart](https://www.tradingview.com/chart/?symbol=CRI) | Carter's Inc. | CRI |
+| 5 | 100 | $17.19 | [Chart](https://www.tradingview.com/chart/?symbol=HP) | Helmerich & Payne, Inc. | HP |
+| 5 | 100 | $14.54 | [Chart](https://www.tradingview.com/chart/?symbol=VRE) | Veris Residential, Inc. | VRE |
+| 6 | 100 | $64.07 | [Chart](https://www.tradingview.com/chart/?symbol=ZROZ) | PIMCO 25+ Year Zero Coupon U.S. Treasury Index Exchange-Traded Fund | ZROZ |
+| 6 | 100 | $52.13 | [Chart](https://www.tradingview.com/chart/?symbol=LW) | Lamb Weston Holdings, Inc. | LW |
+| 6 | 100 | $17.99 | [Chart](https://www.tradingview.com/chart/?symbol=APLS) | Apellis Pharmaceuticals, Inc. Common Stock | APLS |
+| 7 | 100 | $82.39 | [Chart](https://www.tradingview.com/chart/?symbol=LNTH) | Lantheus Holdings, Inc | LNTH |
+| 8 | 100 | $85.60 | [Chart](https://www.tradingview.com/chart/?symbol=SIGI) | Selective Insurance Group | SIGI |
+| 8 | 100 | $85.66 | [Chart](https://www.tradingview.com/chart/?symbol=TLT) | iShares 20+ Year Treasury Bond ETF | TLT |
+| 8 | 100 | $45.54 | [Chart](https://www.tradingview.com/chart/?symbol=CWT) | California Water Service | CWT |
+| 13 | 100 | $10.37 | [Chart](https://www.tradingview.com/chart/?symbol=MUC) | BLACKROCK MUNIHOLDINGS CALIFORNIA QUALITY FUND, INC | MUC |
+| 2 | 99 | $234.10 | [Chart](https://www.tradingview.com/chart/?symbol=MOH) | Molina Healthcare, Inc. | MOH |
+| 8 | 99 | $27.35 | [Chart](https://www.tradingview.com/chart/?symbol=GTY) | Getty Realty Corp. | GTY |
+| 9 | 99 | $12.61 | [Chart](https://www.tradingview.com/chart/?symbol=EWTX) | Edgewise Therapeutics, Inc. Common Stock | EWTX |
+| 10 | 99 | $38.73 | [Chart](https://www.tradingview.com/chart/?symbol=LKQ) | LKQ Corporation | LKQ |
+| 10 | 99 | $62.02 | [Chart](https://www.tradingview.com/chart/?symbol=ELS) | Equity Lifestyle Properties, Inc. | ELS |
+| 11 | 99 | $10.38 | [Chart](https://www.tradingview.com/chart/?symbol=NMZ) | Nuveen Municipal High Income Opportunity Fund | NMZ |
+| 12 | 99 | $53.99 | [Chart](https://www.tradingview.com/chart/?symbol=CNMD) | CONMED Corporation | CNMD |
+| 12 | 99 | $40.81 | [Chart](https://www.tradingview.com/chart/?symbol=POR) | Portland General Electric Company | POR |
+| 12 | 99 | $131.73 | [Chart](https://www.tradingview.com/chart/?symbol=KMB) | Kimberly-Clark Corp. | KMB |
+| 7 | 98 | $13.70 | [Chart](https://www.tradingview.com/chart/?symbol=EIC) | Eagle Point Income Company Inc. | EIC |
+| 8 | 98 | $334.06 | [Chart](https://www.tradingview.com/chart/?symbol=EG) | Everest Group, Ltd. | EG |
+| 8 | 98 | $26.77 | [Chart](https://www.tradingview.com/chart/?symbol=VCYT) | Veracyte, Inc. | VCYT |
+| 12 | 98 | $15.20 | [Chart](https://www.tradingview.com/chart/?symbol=SEM) | SELECT MEDICAL HOLDINGS CORP | SEM |
+| 17 | 98 | $17.93 | [Chart](https://www.tradingview.com/chart/?symbol=ZTO) | ZTO Express (Cayman) Inc. American Depositary Shares, each representing one Class A ordinary share | ZTO |
+| 10 | 97 | $48.66 | [Chart](https://www.tradingview.com/chart/?symbol=SNY) | Sanofi American Depositary Shares (Each representing one-half of one ordinary share) | SNY |
+| 19 | 97 | $29.12 | [Chart](https://www.tradingview.com/chart/?symbol=SPTS) | SPDR Portfolio Short Term Treasury ETF | SPTS |
+| 17 | 96 | $25.28 | [Chart](https://www.tradingview.com/chart/?symbol=SPAB) | SPDR Portfolio Aggregate Bond ETF | SPAB |
+| 7 | 95 | $25.28 | [Chart](https://www.tradingview.com/chart/?symbol=DRV) | Direxion Daily Real Estate Bear 3X Shares | DRV |
+| 10 | 95 | $12.67 | [Chart](https://www.tradingview.com/chart/?symbol=PCN) | PIMCO Corporate & Income Strategy Fund | PCN |
+| 18 | 95 | $82.36 | [Chart](https://www.tradingview.com/chart/?symbol=KSPI) | Joint Stock Company Kaspi.kz American Depository Shares | KSPI |
+| 18 | 95 | $15.58 | [Chart](https://www.tradingview.com/chart/?symbol=HQH) | abrdn Healthcare Investors | HQH |
+| 7 | 94 | $129.71 | [Chart](https://www.tradingview.com/chart/?symbol=ICUI) | ICU Medical Inc | ICUI |
+| 9 | 94 | $71.13 | [Chart](https://www.tradingview.com/chart/?symbol=RLI) | RLI Corp. | RLI |
+| 11 | 94 | $76.49 | [Chart](https://www.tradingview.com/chart/?symbol=CNS) | Cohen & Steers Inc. | CNS |
+| 12 | 94 | $76.47 | [Chart](https://www.tradingview.com/chart/?symbol=AWR) | American States Water Company | AWR |
+| 12 | 93 | $14.13 | [Chart](https://www.tradingview.com/chart/?symbol=DOLE) | Dole plc | DOLE |
+| 18 | 93 | $16.06 | [Chart](https://www.tradingview.com/chart/?symbol=BNL) | Broadstone Net Lease, Inc. | BNL |
+| 19 | 92 | $32.34 | [Chart](https://www.tradingview.com/chart/?symbol=INVH) | Invitation Homes Inc. Common Stock | INVH |
+| 20 | 91 | $47.44 | [Chart](https://www.tradingview.com/chart/?symbol=KBR) | KBR, Inc. | KBR |
+| 13 | 90 | $68.82 | [Chart](https://www.tradingview.com/chart/?symbol=BRC) | Brady Corporation | BRC |
+| 13 | 90 | $34.90 | [Chart](https://www.tradingview.com/chart/?symbol=PECO) | Phillips Edison & Company, Inc. Common Stock | PECO |
+| 16 | 90 | $46.46 | [Chart](https://www.tradingview.com/chart/?symbol=JCPB) | JPMorgan Core Plus Bond ETF | JCPB |
+| 17 | 88 | $22.94 | [Chart](https://www.tradingview.com/chart/?symbol=SCHZ) | Schwab US Aggregate Bond ETF | SCHZ |
+| 20 | 88 | $22.84 | [Chart](https://www.tradingview.com/chart/?symbol=IBTG) | iShares iBonds Dec 2026 Term Treasury ETF | IBTG |
+| 25 | 88 | $105.44 | [Chart](https://www.tradingview.com/chart/?symbol=DEO) | Diageo plc | DEO |
+| 16 | 87 | $97.98 | [Chart](https://www.tradingview.com/chart/?symbol=AGG) | iShares Core U.S. Aggregate Bond ETF | AGG |
+| 26 | 85 | $60.95 | [Chart](https://www.tradingview.com/chart/?symbol=UL) | Unilever plc | UL |
+| 19 | 84 | $105.40 | [Chart](https://www.tradingview.com/chart/?symbol=DECK) | Deckers Outdoor Corp | DECK |
+| 19 | 83 | $35.20 | [Chart](https://www.tradingview.com/chart/?symbol=LTC) | LTC Properties, Inc. | LTC |
+| 21 | 83 | $110.14 | [Chart](https://www.tradingview.com/chart/?symbol=SHV) | iShares Short Treasury Bond ETF | SHV |
+| 23 | 83 | $35.67 | [Chart](https://www.tradingview.com/chart/?symbol=AMH) | AMERICAN HOMES 4 RENT | AMH |
+| 24 | 83 | $117.02 | [Chart](https://www.tradingview.com/chart/?symbol=ITGR) | Integer Holdings Corporation | ITGR |
+| 26 | 82 | $23.10 | [Chart](https://www.tradingview.com/chart/?symbol=IBHF) | iShares iBonds 2026 Term High Yield and Income ETF | IBHF |
+| 31 | 81 | $13.30 | [Chart](https://www.tradingview.com/chart/?symbol=ARDT) | Ardent Health, Inc. | ARDT |
+| 20 | 80 | $80.75 | [Chart](https://www.tradingview.com/chart/?symbol=OKE) | Oneok, Inc. | OKE |
+| 26 | 80 | $19.10 | [Chart](https://www.tradingview.com/chart/?symbol=MSDL) | Morgan Stanley Direct Lending Fund | MSDL |
+| 25 | 79 | $41.05 | [Chart](https://www.tradingview.com/chart/?symbol=UDR) | UDR, Inc. | UDR |
+| 31 | 78 | $194.41 | [Chart](https://www.tradingview.com/chart/?symbol=RGA) | Reinsurance Group of America, Incorporated | RGA |
+| 37 | 77 | $462.42 | [Chart](https://www.tradingview.com/chart/?symbol=LMT) | Lockheed Martin Corp. | LMT |
+| 32 | 76 | $347.73 | [Chart](https://www.tradingview.com/chart/?symbol=SHW) | The Sherwin-Williams Company | SHW |
+| 28 | 75 | $70.36 | [Chart](https://www.tradingview.com/chart/?symbol=AZN) | AstraZeneca PLC | AZN |
+| 29 | 74 | $240.66 | [Chart](https://www.tradingview.com/chart/?symbol=RNR) | RenaissanceRe Holdings Ltd. | RNR |
+| 32 | 73 | $31.07 | [Chart](https://www.tradingview.com/chart/?symbol=AXTA) | Axalta Coating Systems Ltd. | AXTA |
+| 34 | 73 | $12.14 | [Chart](https://www.tradingview.com/chart/?symbol=DSL) | DOUBLELINE INCOME SOLUTIONS FUND | DSL |
+| 35 | 73 | $21.43 | [Chart](https://www.tradingview.com/chart/?symbol=SPT) | Sprout Social, Inc Class A Common Stock | SPT |
+| 37 | 72 | $103.68 | [Chart](https://www.tradingview.com/chart/?symbol=FMX) | FOMENTO ECONOMICO MEXICANO, S.A.B. DE C.V. | FMX |
+| 34 | 71 | $17.38 | [Chart](https://www.tradingview.com/chart/?symbol=NVCR) | NovoCure Limited Ordinary Shares | NVCR |
+| 39 | 68 | $307.58 | [Chart](https://www.tradingview.com/chart/?symbol=ACN) | Accenture PLC | ACN |
+| 35 | 65 | $39.03 | [Chart](https://www.tradingview.com/chart/?symbol=LZB) | La-Z-Boy Incorporated | LZB |
 
 ## **Methodology**
 
